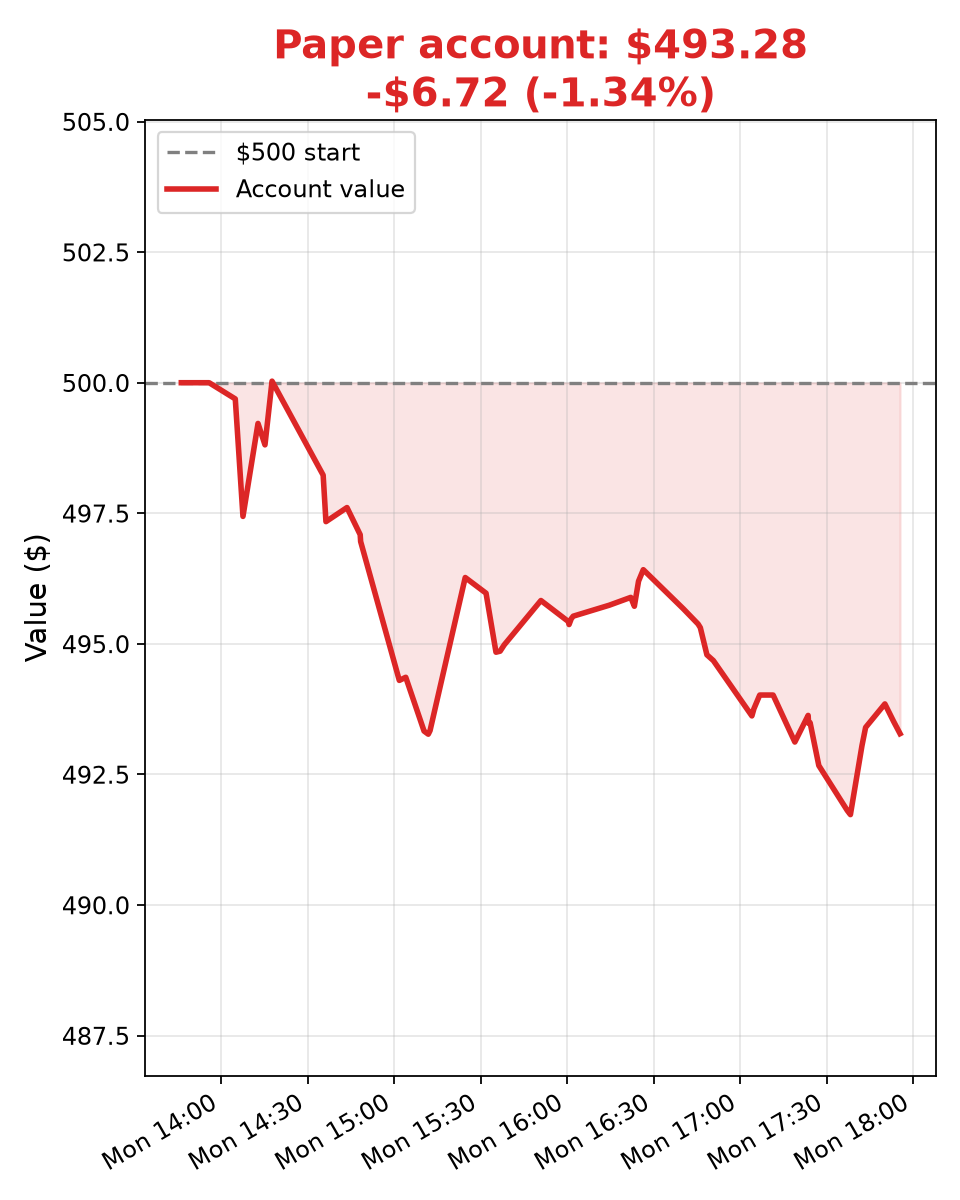
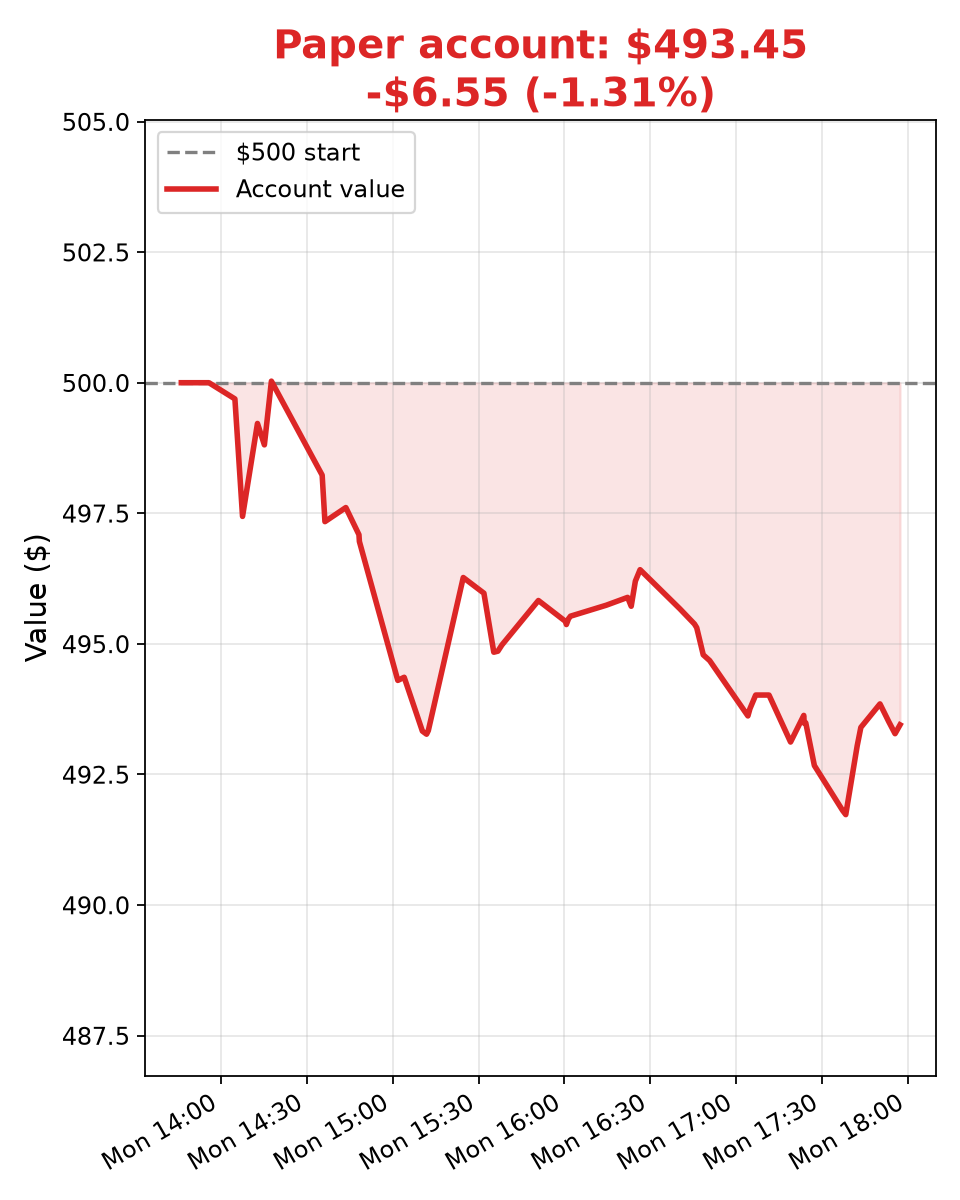
Update 2026-10-12T17:57:26Z

diff --git a/ledger.md b/ledger.md
@@ -88,3 +88,5 @@
 - 2026-10-12T17:53:17Z — total $493.51, cash $98.62 (Bot4 mark, no trade; FRO 58.67, DHT 25.865, ASTS 53.03 marked; no stops/targets hit — tankers holding bounce off 17:37 lows, ASTS soft under entry near LOD)
 
 - 2026-10-12T17:55:29Z — total $493.28, cash $98.62 (Stock Bot mark, no trade; FRO 58.67, DHT 25.875, ASTS 52.88 marked; no stops/targets hit — tankers holding bounce off 17:37 lows under lunch coil; ASTS soft under entry, pressing toward LOD 52.77, stop 52.40 ~0.9% away)
+
+- 2026-10-12T17:57:14Z — total $493.45, cash $98.62 (Bot2 mark, no trade; FRO 58.685, DHT 25.885, ASTS 52.92 marked; no stops/targets hit — tankers holding bounce off 17:37 lows under lunch coil; ASTS soft under entry, ~0.15 above LOD 52.77, stop 52.40 ~1.0% away)
